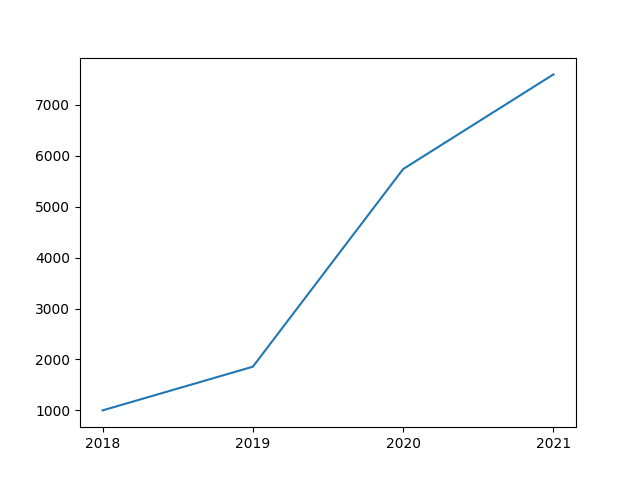
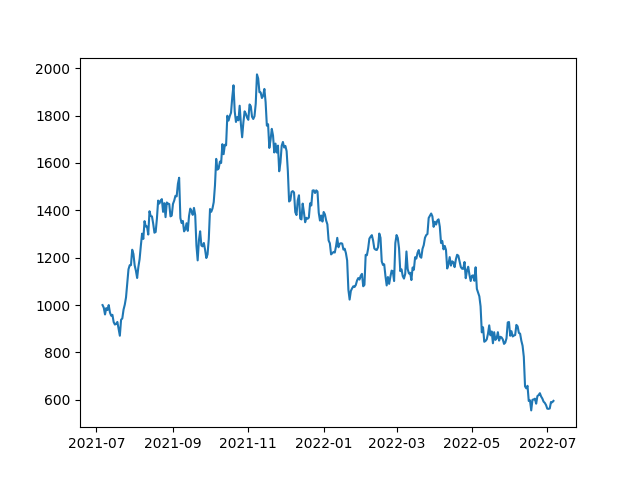
new

diff --git a/Finance/func_yfinance/portfolio_optimization.py b/Finance/func_yfinance/portfolio_optimization.py
@@ -1,0 +1,59 @@
+import matplotlib.pyplot as plt
+import pandas as pd
+import yfinance as yf
+import numpy as np
+
+stocks = ['AAPL', 'AMZN', 'MSFT', 'TSLA']
+
+data = yf.download(stocks, start='2022-01-01')
+
+# daily return
+data = data['Close']
+x = data.pct_change()
+
+
+p_weights = []
+p_returns = []
+p_risk = []
+p_sharpe = []
+
+count = 500
+for k in range(0, count):
+    wts = np.random.uniform(size = len(x.columns))
+    wts = wts/np.sum(wts)
+    p_weights.append(wts)
+    
+    # returns
+    mean_ret = (x.mean() * wts).sum()*252
+    p_returns.append(mean_ret)
+    
+    # volatility
+    ret = (x * wts).sum(axis = 1)
+    annual_std = np.std(ret) * np.sqrt(252)
+    p_risk.append(annual_std)
+    
+    # sharpe ratio
+    sharpe = (np.mean(ret) / np.std(ret)) * np.sqrt(252)
+    p_sharpe.append(sharpe)
+
+
+max_ind = np.argmax(p_sharpe)
+
+# max sharpe ratio
+print("Max sharpe: ", p_sharpe[max_ind])
+
+# weights
+print("Weights: ", p_weights[max_ind])
+
+# s = pd.Series(p_weights[max_ind], index=x.columns)
+# s.plot(kind='bar')
+# plt.savefig('weights.png')
+
+
+plt.scatter(p_risk, p_returns, c=p_sharpe, cmap='plasma')
+plt.colorbar(label='Sharpe Ratio')
+
+plt.scatter(p_risk[max_ind], p_returns[max_ind], color='r', marker='*', s=500)
+plt.show()
+
+plt.savefig('efficient_frontier.png')

diff --git a/Finance/func_yfinance/analyze_portfolio.py b/Finance/func_yfinance/analyze_portfolio.py
@@ -1,0 +1,32 @@
+import matplotlib.pyplot as plt
+import yfinance as yf
+import numpy as np
+
+stocks = ['AAPL', 'AMZN', 'MSFT', 'TSLA']
+weights = [0.3, 0.2, 0.4, 0.1]
+
+data = yf.download(stocks, start='2022-01-01')
+
+# daily returns
+x = data['Close'].pct_change()
+
+# portfolio return
+ret = (x * weights).sum(axis = 1)
+
+# total cumulative return
+cumulative = (ret + 1).cumprod()
+
+cumulative.plot()
+plt.savefig('total_cumulative_return_portfolio.png')
+
+# daily volatility
+daily_std = np.std(ret)
+print("Daily volatility: ", daily_std)
+
+# annual volatility
+annual_std = np.std(ret) * np.sqrt(252)
+print("Annual volatility: ", annual_std)
+
+# measure of risk-adjusted return, 
+sharpe = (np.mean(ret) / np.std(ret)) * np.sqrt(252)
+print("Sharpe: ", sharpe)

diff --git a/Finance/bitcoin/bitcoin_project.py b/Finance/bitcoin/bitcoin_project.py
@@ -1,14 +1,21 @@
 import numpy as np
 import numpy_financial as npf
 import matplotlib.pyplot as plt
+import yfinance as yf
 
 # Bitcoin 2018-2021 price(s) 
-bitcoin = [3869.47, 7188.46, 22203.31, 29391.78]
-years = ['2018', '2019', '2020', '2021']
+data = yf.Ticker('BTC-USD')
+x = data.history('1y')['Close']
 
-pv = 1000
-coin = pv/bitcoin[0]
-new_values = np.multiply(bitcoin, coin)
+start = 1000/x[0]
+new_values = np.multiply(start, x)
 
-plt.plot(years, new_values)
+annual_std = np.std(new_values) * np.sqrt(252)
+
+sharpe = (np.mean(new_values) / np.std(new_values)) * np.sqrt(252)
+
+plt.plot(new_values)
 plt.savefig('bitcoin.png')
+
+print("Risk: ", annual_std)
+print("Sharpe: ", sharpe)

diff --git a/Finance/func_yfinance/multiple_stock_returns.py b/Finance/func_yfinance/multiple_stock_returns.py
@@ -1,0 +1,17 @@
+import yfinance as yf
+import matplotlib.pyplot as plt
+
+# compare daily stocks
+data = yf.download('AAPL MSFT TSLA', start='2022-01-01')
+data['Close'].plot()
+plt.savefig('multiple_stock_daily.png')
+
+
+# daily returns
+x = data['Close'].pct_change()
+x.plot()
+plt.savefig('multiple_daily_returns.png')
+
+# cumulative returns
+(x + 1).cumprod().plot()
+plt.savefig('multiple_cumulative_returns.png')

diff --git a/Finance/func_yfinance/stock_returns.py b/Finance/func_yfinance/stock_returns.py
@@ -1,0 +1,19 @@
+import yfinance as yf
+import matplotlib.pyplot as plt
+
+data = yf.Ticker('TSLA')
+price = data.history(period='1y')
+
+# pct_change => percentage change
+x = price['Close'].pct_change()
+
+
+# creating a histogram
+x.plot(kind='hist')
+plt.savefig('stock_returns_histogram.png')
+
+
+# how a $1 investment would grow
+returns = (x + 1).cumprod()
+returns.plot()
+plt.savefig('cumulative_returns.png')

diff --git a/Finance/func_yfinance/data_correlations.py b/Finance/func_yfinance/data_correlations.py
@@ -1,0 +1,12 @@
+import yfinance as yf
+import matplotlib.pyplot as plt
+import statsmodels.api as sm
+
+# Corr => how securities move in relation to each other
+data = yf.download('FB AMZN AAPL NFLX GOOG', start='2022-01-01')
+x = data['Close'].pct_change()
+corr = x.corr()
+
+sm.graphics.plot_corr(corr, xnames=list(x.columns))
+
+plt.savefig('correlation_graph.png')

diff --git a/data science/pandas/ranking_board_dataframe.py b/data science/pandas/ranking_board_dataframe.py
@@ -8,3 +8,5 @@ data = {
 df = pd.DataFrame(data, index=data['name'])
 
 num = int(input())
+
+print(df[df['rank'] == num]['name'])

diff --git a/Finance/func_yfinance/random_weight_stocks.py b/Finance/func_yfinance/random_weight_stocks.py
@@ -1,0 +1,6 @@
+import numpy as np
+
+wts = np.random.uniform(size = 4)
+wts = wts/np.sum(wts)
+
+print(wts)
